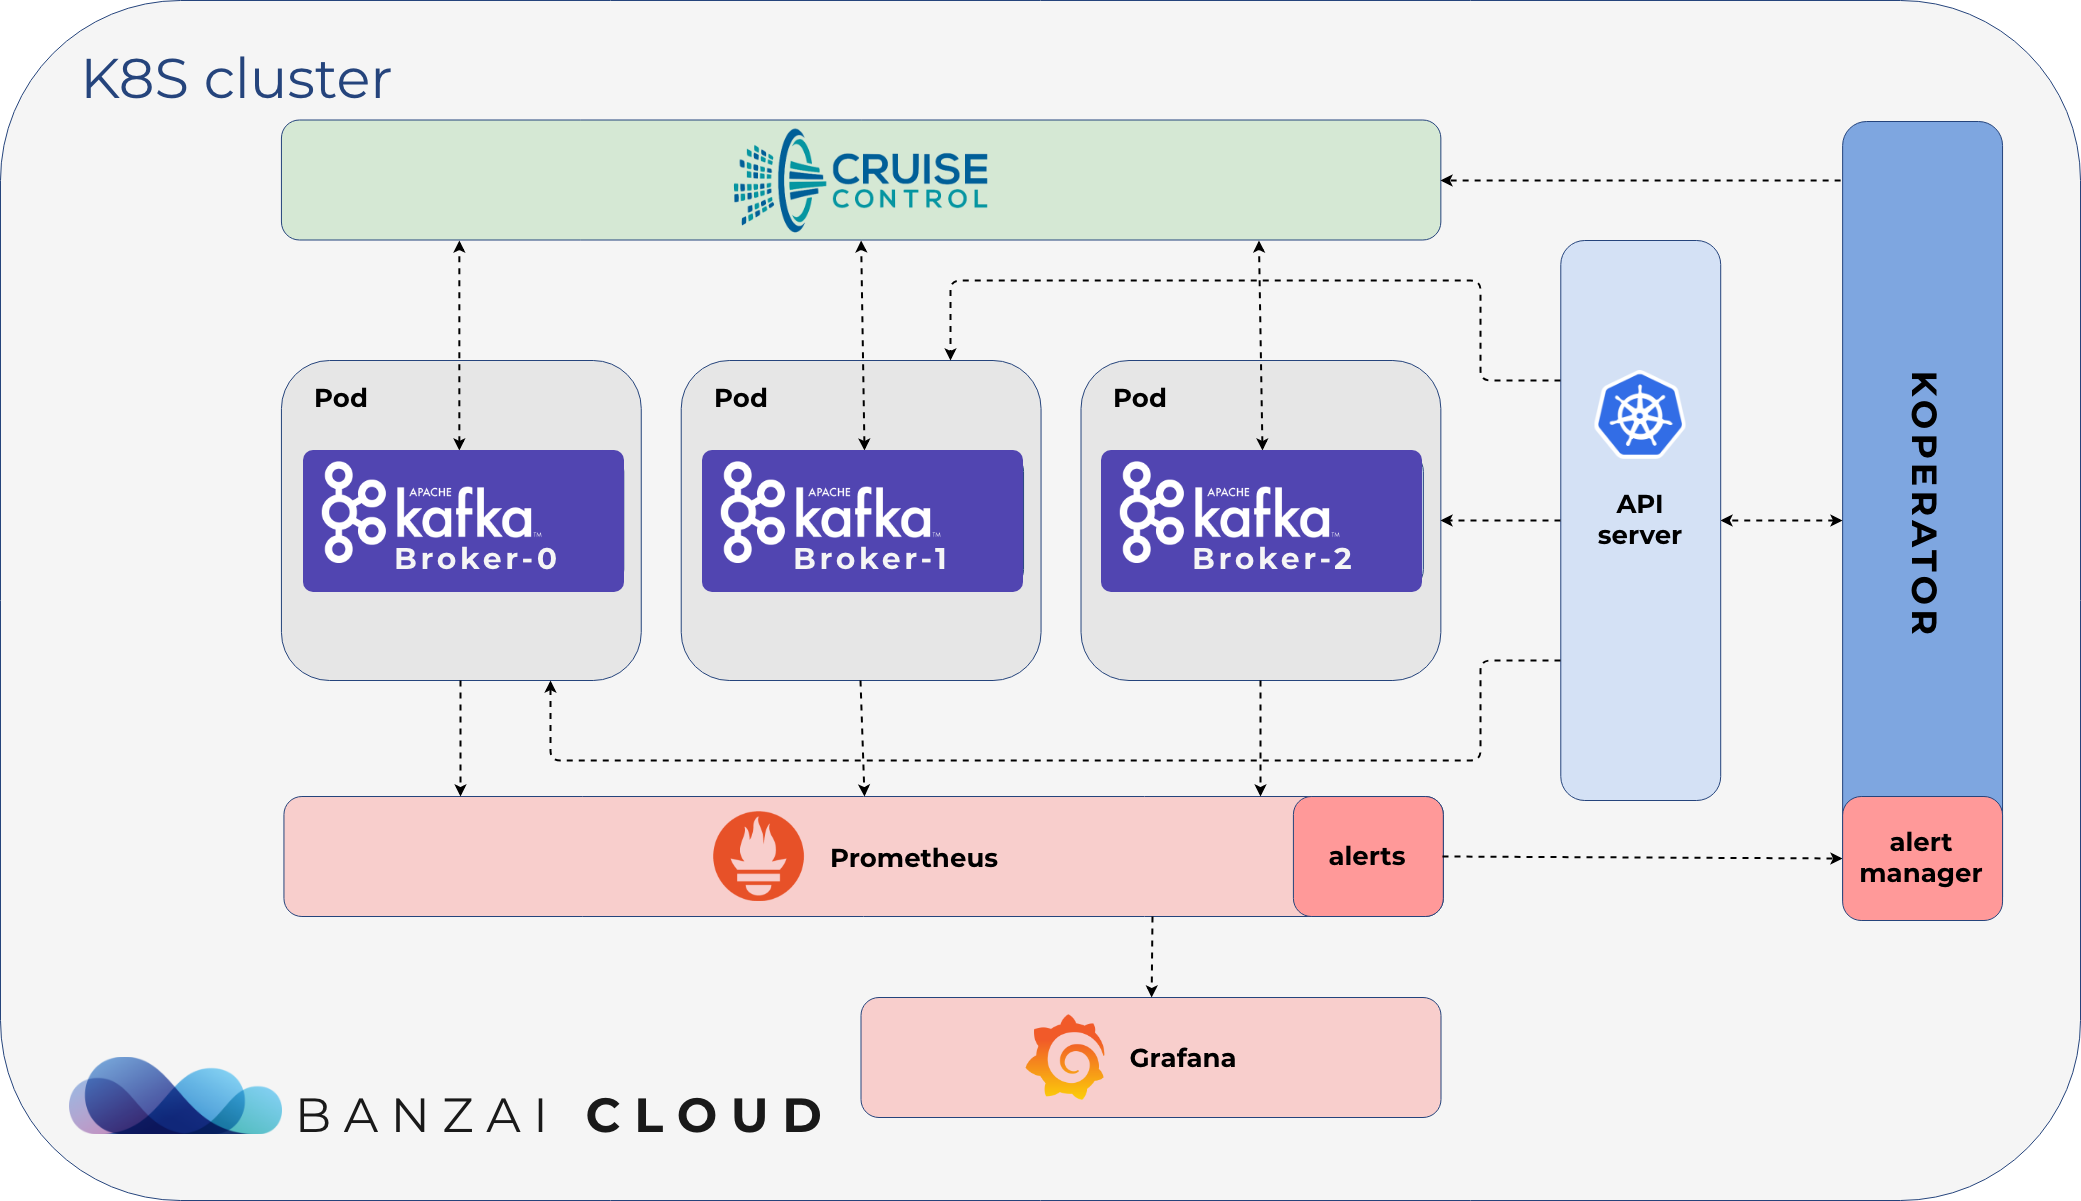
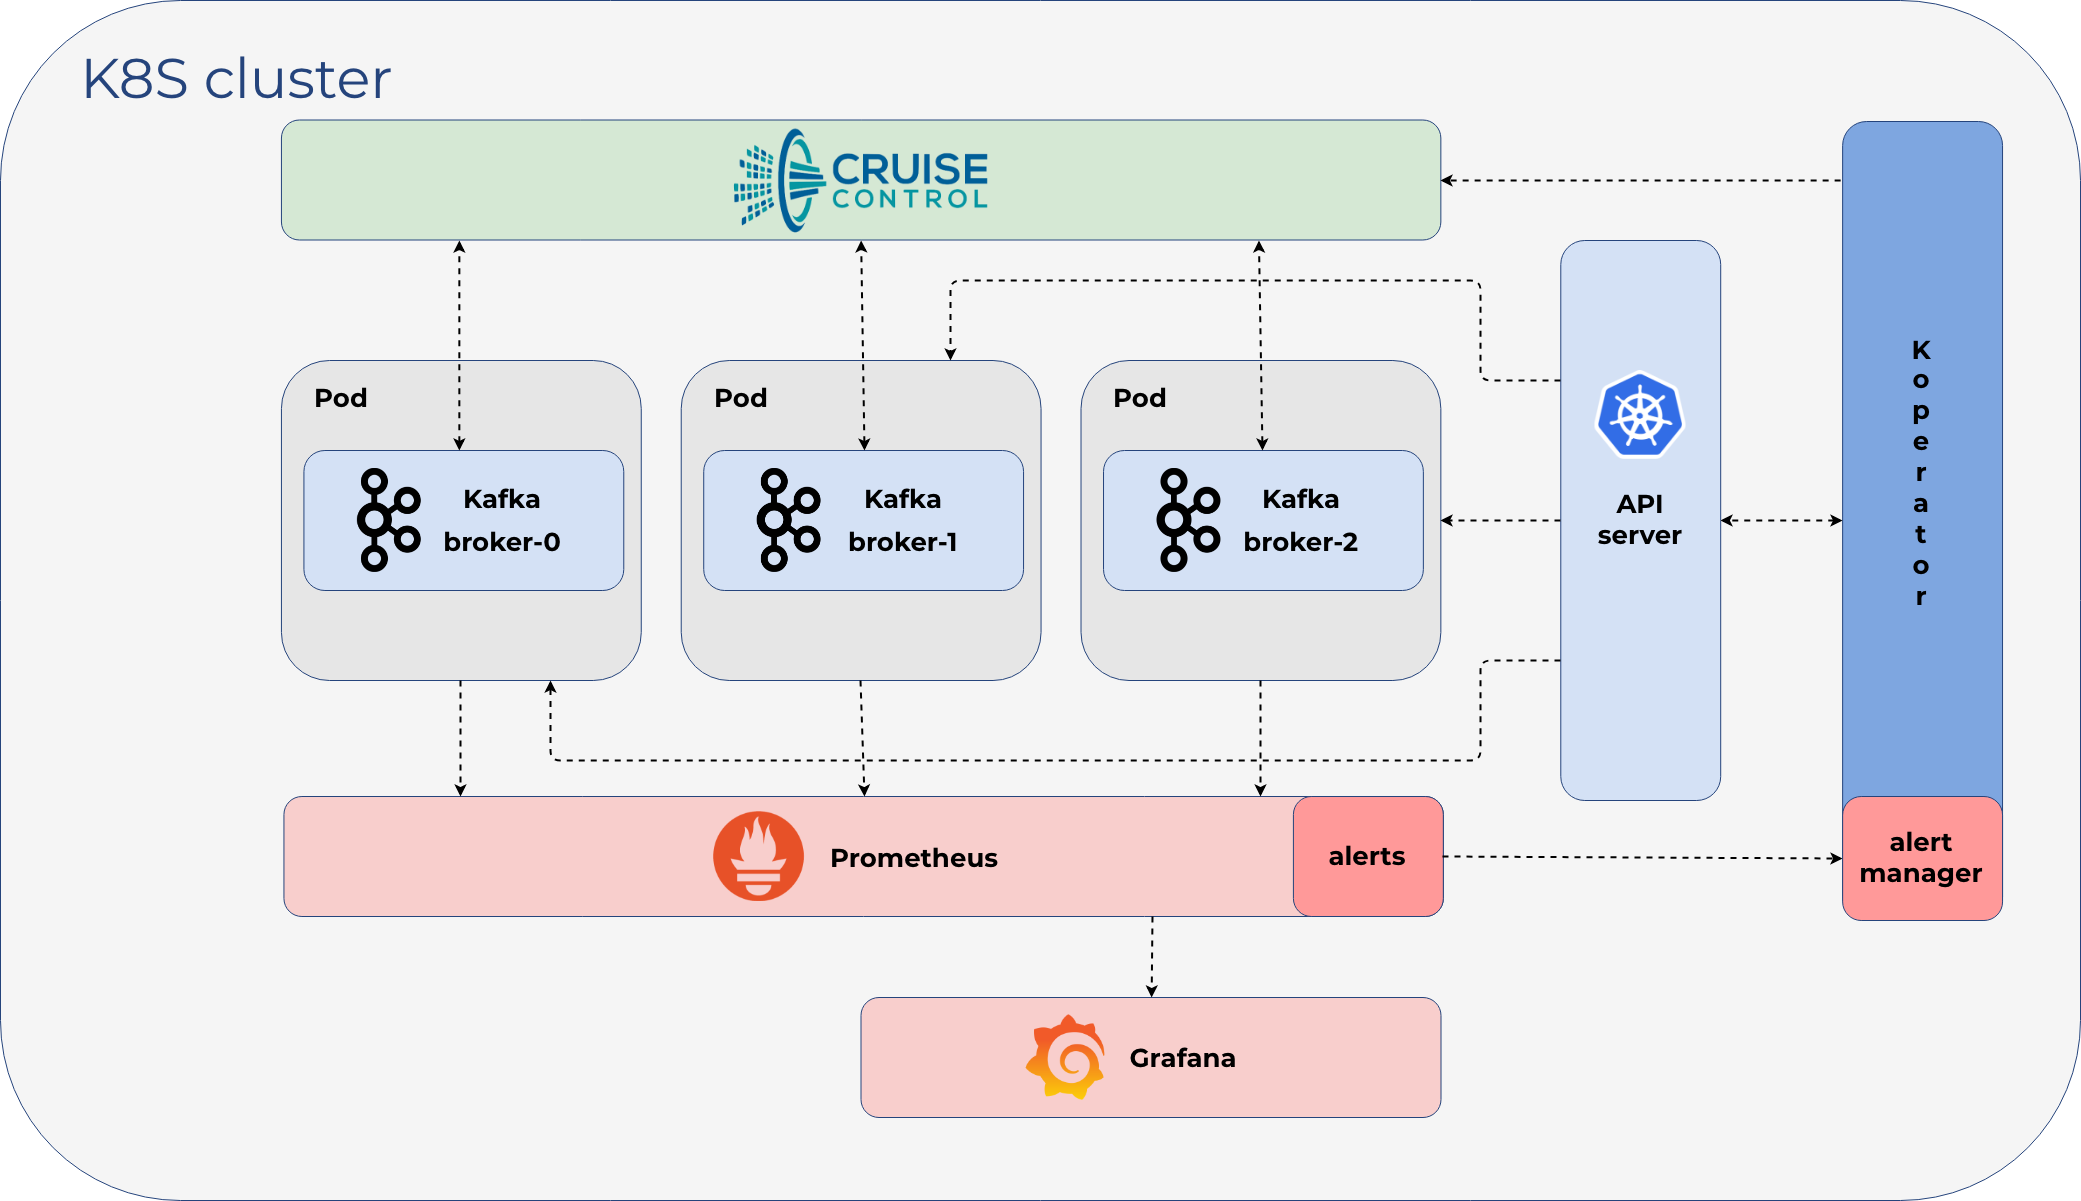
overview, features & architecture

diff --git a/README.md b/README.md
@@ -22,35 +22,63 @@
 
 # Koperator
 
-Koperator (formerly called Banzai Cloud Kafka Operator) is an operator for managing Apache Kafka on Kubernetes that automates the provisioning, management, and autoscaling of [Apache Kafka](https://kafka.apache.org) clusters deployed to K8s.
+Koperator is an open-source operator that automates the provisioning, management, and autoscaling of Apache Kafka clusters on Kubernetes. 
+Unlike other solutions that rely on StatefulSets, Koperator has been built with a unique architecture that provides greater flexibility and functionality for managing Apache Kafka. This architecture allows for fine-grained configuration and management of individual brokers.
 
-## Overview
-
-Apache Kafka is an open-source distributed streaming platform, and some of the main features of the **Koperator** are:
+Some of the main features of **Koperator** are:
 
 - the provisioning of secure and production ready Kafka clusters
-- **fine grained** broker configuration support
-- advanced and highly configurable External Access via LoadBalancers using **Envoy**
-- graceful Kafka cluster **scaling and rebalancing**
-- monitoring via **Prometheus**
+- fine grained broker-by-broker configuration support
+- advanced and highly configurable external access
+- graceful Kafka cluster scaling and rebalancing
+- detailed Prometheus metrics
 - encrypted communication using SSL
-- automatic reaction and self healing based on alerts (plugin system, with meaningful default alert plugins) using **Cruise Control**
-- graceful rolling upgrade
-- advanced topic and user management via CRD
+- automatic reaction and self healing based on alerts using [Cruise Control](https://github.com/linkedin/cruise-control)
+- graceful rolling upgrades
+- advanced topic and user management via Kubernetes Custom Resources
+- Cruise Control task management via Kubernetes Custom Resources
 
 ![Koperator architecture](docs/img/kafka-operator-arch.png)
 
->We took a different approach to what's out there - we believe for a good reason - please read on to understand more about our [design motivations](docs/features.md) and some of the [scenarios](docs/scenarios.md) which were driving us to create Koperator.
+## Architecture
 
-**Koperator** is a core part of [Banzai Cloud Supertubes](https://banzaicloud.com/products/supertubes/) (now called Cisco Streaming Data Manager) that helps you create production-ready Apache Kafka clusters on Kubernetes, with scaling, rebalancing, and alerts based self healing. While the Koperator itself is an open-source project, the [Banzai Cloud Supertubes](https://banzaicloud.com/products/supertubes/) product extends the functionality of Koperator with commercial features (for example, built-in monitoring and multiple ways of disaster recovery). Read a [detailed comparison of Supertubes and Koperator](https://banzaicloud.com/docs/supertubes/kafka-operator-supertubes-feature-comparison/).
+Kafka is a stateful application. The first piece of the puzzle is the Broker, which is a simple server capable of creating/forming a cluster with other Brokers. Every Broker has his own unique configuration which differs slightly from all others - the most relevant of which is the unique broker ID.
 
-## Installation
+All Kafka on Kubernetes operators use [StatefulSet](https://kubernetes.io/docs/concepts/workloads/controllers/statefulset/) to create a Kafka Cluster.
+
+How does this look from the perspective of Apache Kafka?
+
+With StatefulSet we get:
+
+- unique Broker IDs generated during Pod startup
+- networking between brokers with headless services
+- unique Persistent Volumes for Brokers
+
+Using StatefulSet we lose:
+
+- the ability to modify the configuration of unique Brokers
+- to remove a specific Broker from a cluster (StatefulSet always removes the most recently created Broker)
+- to use multiple, different Persistent Volumes for each Broker
+
+*Koperator uses simple Pods, ConfigMaps, and PersistentVolumeClaims, instead of StatefulSet. Using these resources allows us to build an Operator which is better suited to manage Apache Kafka.*
+
+With the Koperator you can:
+
+- modify the configuration of unique Brokers
+- remove specific Brokers from clusters
+- use multiple Persistent Volumes for each Broker
+
+Read on to understand more about our design motivations and some of the [scenarios](https://docs.calisti.app/sdm/koperator/scenarios/) which were driving us to create Koperator.
+
+## Quick start
 
 For detailed installation instructions, see the [Banzai Cloud Documentation Page](https://banzaicloud.com/docs/supertubes/kafka-operator/install-kafka-operator/).
 
+# TODO
+
 ## Documentation
 
-The documentation of the Koperator project is available at the [Banzai Cloud Documentation Page](https://banzaicloud.com/docs/supertubes/kafka-operator/).
+The detailed documentation of the Koperator project is available in the [Cisco Calisti documentation](https://docs.calisti.app/sdm/koperator/).
 
 ## Support
 
@@ -58,9 +86,6 @@ The documentation of the Koperator project is available at the [Banzai Cloud Doc
 
 If you encounter problems while using Koperator that the documentation does not address, [open an issue](https://github.com/banzaicloud/koperator/issues) or talk to us on the Banzai Cloud Slack channel [#kafka-operator](https://banzaicloud.com/invite-slack/).
 
-### Commercial support
-
-If you are using Koperator in a production environment and [require commercial support, contact Banzai Cloud](https://banzaicloud.com/contact/), the company backing the development of Koperator.
 
 ## Contributing
 
@@ -75,7 +100,7 @@ When you are opening a PR to Koperator the first time we will require you to sig
 
 ## License
 
-Copyright (c) 2019 [Cisco Systems, Inc.](https://www.cisco.com) and/or its affiliates
+Copyright (c) 2023 [Cisco Systems, Inc.](https://www.cisco.com) and/or its affiliates
 
 Licensed under the Apache License, Version 2.0 (the "License");
 you may not use this file except in compliance with the License.
@@ -92,5 +117,3 @@ limitations under the License.
 ## Trademarks
 
 Apache Kafka, Kafka, and the Kafka logo are either registered trademarks or trademarks of The Apache Software Foundation in the United States and other countries.
-
-The Banzai Cloud name, the Banzai Cloud logo, and all Banzai Cloud trademarks and logos are registered trademarks of Cisco.
